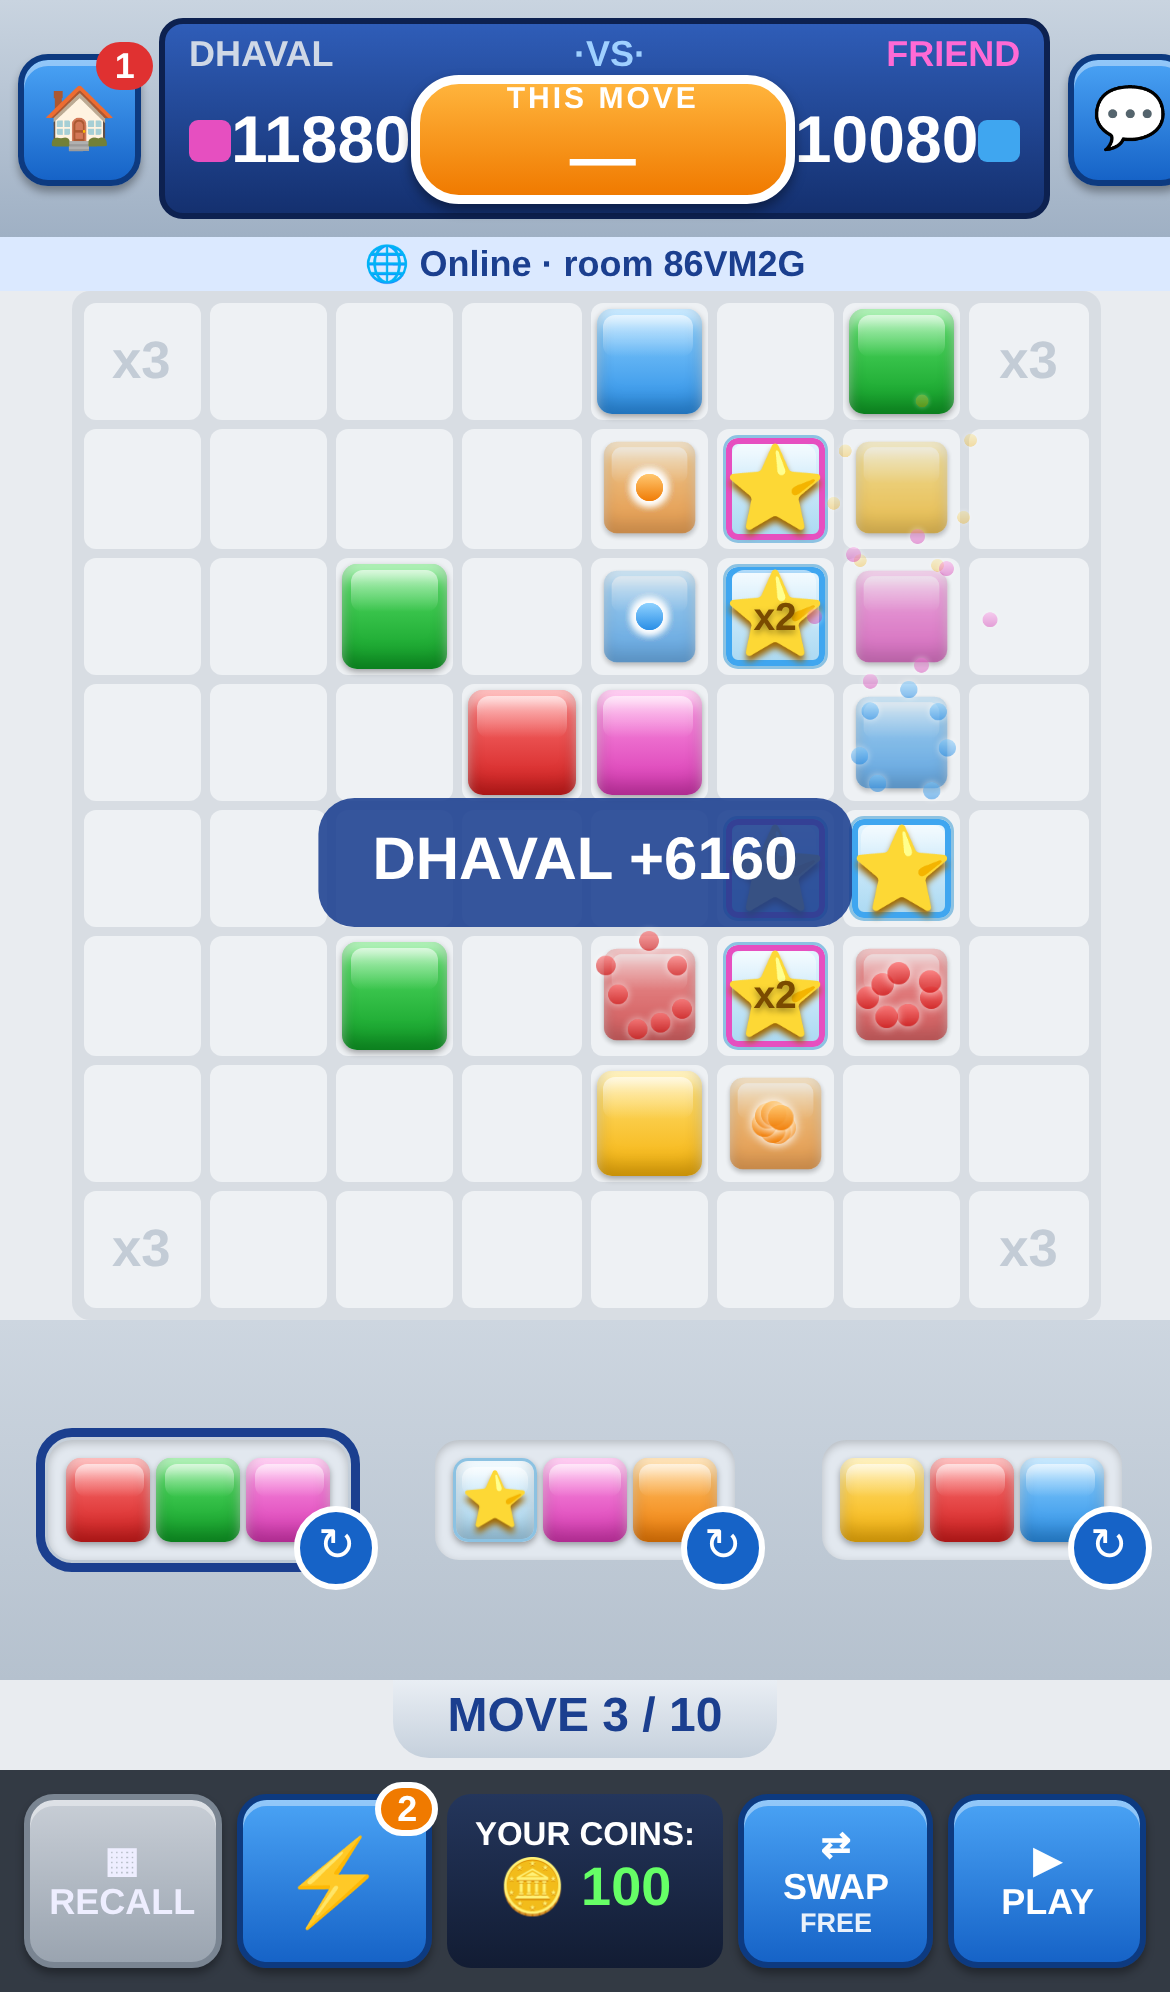
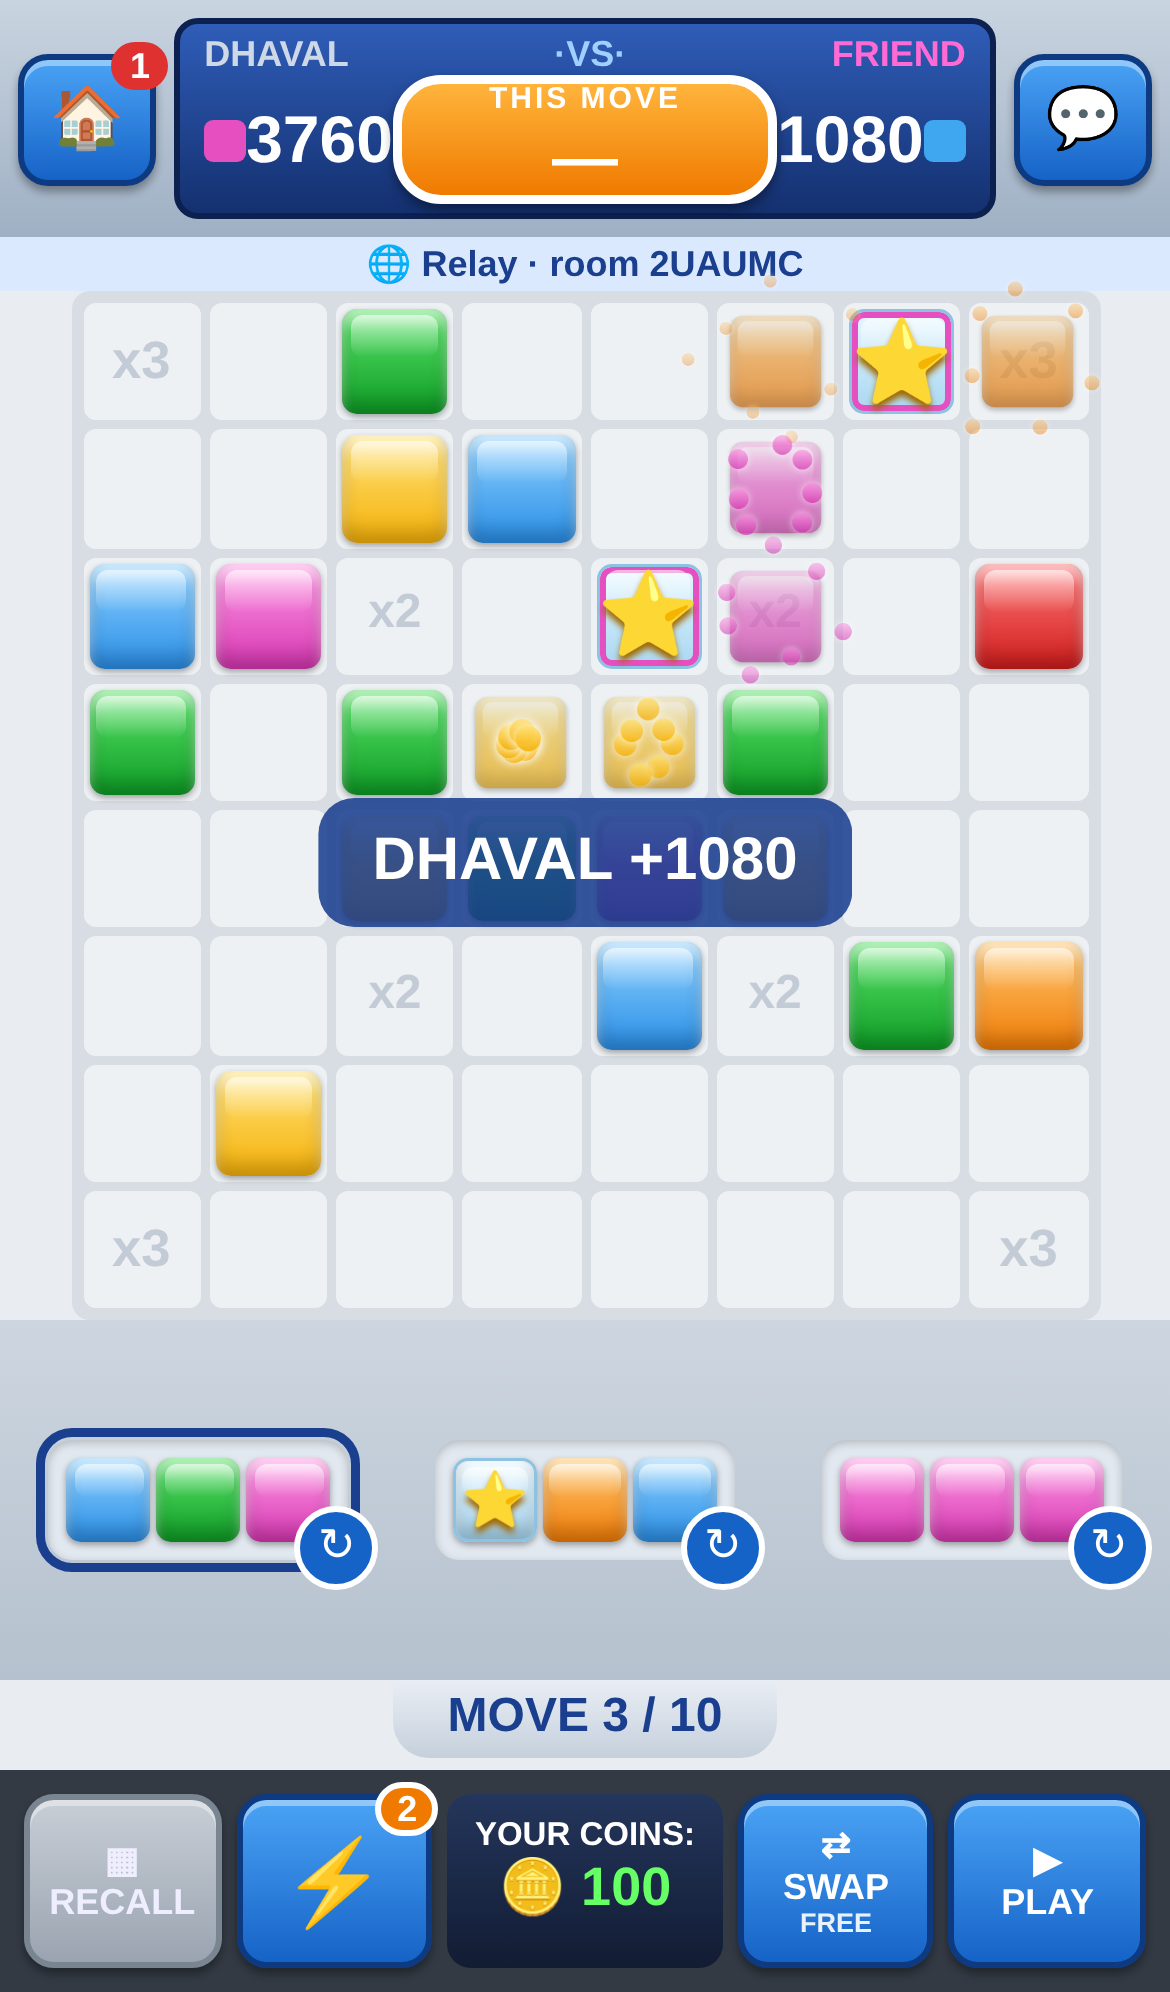
v26 (v25 + WiFi mode): WebRTC DataChannel P2P with ntfy signaling only, relay fallback, direct/relay status

diff --git a/app.js b/app.js
@@ -149,7 +149,7 @@ function onMsg(d){const S=Online.st;
  else if(d.t==='away'){S.lastSeen=0;updOnl();}
  else if(d.t==='rematch'&&d.code){Online.persist({rematch:d.code});say('Rematch offered! See My online games');}
  renderGames();}
-function updOnl(){const el=$('ostat');if(!isOn()||g.over){el.className='';return;}const away=Date.now()-Online.st.lastSeen>200000;el.textContent=away?'⚠ '+NAMES()[1-meIdx()]+' away / reconnecting…':'🌐 Online · room '+Online.st.code;el.className=away?'show away':'show';}
+function updOnl(){const el=$('ostat');if(!isOn()||g.over){el.className='';return;}const away=Date.now()-Online.st.lastSeen>200000;el.textContent=Online.st.p2p?'⚡ Direct connection · room '+Online.st.code:(away?'⚠ '+NAMES()[1-meIdx()]+' away / reconnecting…':'🌐 Relay · room '+Online.st.code);el.className=away?'show away':'show';}
 setInterval(()=>{if(isOn()&&!g.over){if(document.visibilityState==='visible')Online.ping();updOnl();}},90000); // v25: keepalive 90s
 setInterval(()=>{if(isOn())updOnl();},5000);
 document.addEventListener('visibilitychange',()=>{if(!isOn())return;if(document.visibilityState==='visible'){Online.ping('back');}else Online.ping('away');});
@@ -157,11 +157,11 @@ function beginOnline(seed,names,coins,log){pending.length=0;stopWait();g=L.newGa
  pieces=[];boost=false;busy=false;sel=firstFree();$('overlay').classList.remove('show');$('onl').classList.remove('show');render();updOnl();say(g.turn===meIdx()?'Your turn!':'Waiting for '+NAMES()[g.turn]+'…');}
 const onlStatus=t=>{if(waitT){onlErr(t);return;}$('onlmsg').textContent=t;if(isOn()&&t){$('ostat').textContent='⚠ '+t;$('ostat').className='show away';}else if(isOn())updOnl();};
 $('hostBtn').onclick=()=>{const nm=$('pname').value.trim();if(!nm){$('pname').focus();say('Enter your name first');return;}profile.name=nm;saveProfile();
- const code=Online.host(nm,profile.coins,{msg:onMsg,status:onlStatus});$('onl').classList.add('show');$('onlcode').textContent=code;onlStatus('Share this code. Waiting for a friend to join…');};
+ const code=Online.host(nm,profile.coins,{msg:onMsg,status:onlStatus,p2p:onP2P});$('onl').classList.add('show');$('onlcode').textContent=code;onlStatus('Share this code. Waiting for a friend to join…');};
 $('joinBtn').onclick=()=>{const nm=$('pname').value.trim();if(!nm){$('pname').focus();say('Enter your name first');return;}profile.name=nm;saveProfile();
  const code=Online.clean($('joinCode').value);if(code.length!==6){say('Room codes have 6 letters/numbers');onlErr('Room codes have 6 letters/numbers (you typed '+code.length+').');return;}
  joinRoom(code);};
-function joinRoom(code){const nm=profile.name;if(Online.saved(code)&&!Online.saved(code).over){openGame(code);return;}Online.join(code,nm,profile.coins,{msg:onMsg,status:onlStatus});$('overlay').classList.remove('show');$('onl').classList.add('show');$('onlcode').textContent=code;onlStatus('Joining room…');renderGames();}
+function joinRoom(code){const nm=profile.name;if(Online.saved(code)&&!Online.saved(code).over){openGame(code);return;}Online.join(code,nm,profile.coins,{msg:onMsg,status:onlStatus,p2p:onP2P});$('overlay').classList.remove('show');$('onl').classList.add('show');$('onlcode').textContent=code;onlStatus('Joining room…');renderGames();}
 $('onlCancel').onclick=()=>{stopWait();Online.leave();$('onl').classList.remove('show');renderGames();say('Room kept in My online games');};
 // ---- autosave / resume (local games only) ----
 const SKEY='startiles.save';
@@ -173,9 +173,9 @@ function showResume(){const ob=$('onlResume');if(ob)ob.style.display='none';cons
  if(s&&s.g)b.textContent=(g&&g._live&&!g.over?'▶ Continue game (':'▶ Resume game (')+(s.g.mode==='ai'?'vs COMPUTER':'Pass & Play')+', move '+Math.min(10,s.g.moves[0]+1)+'/10)';}
 $('onlResume').onclick=()=>openGame((Online.saved()||{}).code);
 function openGame(code){const s=Online.saved(code);if(!s)return;if(s.rematch&&s.over){joinRoom(s.rematch);return;}
- if(s.seed==null){Online.resume(s,{msg:onMsg,status:onlStatus});$('onl').classList.add('show');$('onlcode').textContent=s.code;onlStatus(s.host?'Share this code. Waiting for a friend to join…':'Joining room…');return;}$('overlay').classList.remove('show');
+ if(s.seed==null){Online.resume(s,{msg:onMsg,status:onlStatus,p2p:onP2P});$('onl').classList.add('show');$('onlcode').textContent=s.code;onlStatus(s.host?'Share this code. Waiting for a friend to join…':'Joining room…');return;}$('overlay').classList.remove('show');
  if(isOn()&&Online.st.on&&Online.st.code===s.code){render();return;} // still connected: just close the menu
- Online.resume(s,{msg:onMsg,status:onlStatus});beginOnline(s.seed,s.names,s.coins,s.log);updOnl();say((s.over?'Finished game ':'Rejoined room ')+s.code+(s.over?'':' – catching up…'));if(g.over){$('result').innerHTML=(g.winner<0?'Tie game!':NAMES()[g.winner]+' wins!')+'<br>'+g.scores[0]+' – '+g.scores[1];Online.leave();$('overlay').classList.add('show');renderGames();}}
+ Online.resume(s,{msg:onMsg,status:onlStatus,p2p:onP2P});beginOnline(s.seed,s.names,s.coins,s.log);updOnl();say((s.over?'Finished game ':'Rejoined room ')+s.code+(s.over?'':' – catching up…'));if(g.over){$('result').innerHTML=(g.winner<0?'Tie game!':NAMES()[g.winner]+' wins!')+'<br>'+g.scores[0]+' – '+g.scores[1];Online.leave();$('overlay').classList.add('show');renderGames();}}
 $('resumeBtn').onclick=()=>{const s=loadSave();if(!s)return;g=Object.assign(s.g,{rng:Math.random,_live:true});if(s.difficulty)profile.difficulty=s.difficulty;
  pieces=(s.pieces||[]).filter(p=>p&&p.tiles);boost=false;busy=false;aim=null;$('overlay').classList.remove('show');sel=firstFree();
  if(g.mode==='ai'&&g.turn===1){pieces=[];next();}else render();say('Game resumed');};
@@ -212,7 +212,7 @@ function esc(t){return String(t).replace(/[&<>"]/g,c=>({'&':'&amp;','<':'&lt;','
 document.addEventListener('click',e=>{const row=e.target.closest&&e.target.closest('.mg');if(!row)return;const code=row.dataset.code,a=e.target.dataset&&e.target.dataset.a,o=Online.saved(code);if(!o)return;
  if(a==='rm'){const G=replayGame(o);if(G&&!G.over&&!o.over){if(!confirm('Resign this game vs '+(o.names?o.names[1-o.me]:'friend')+'? It counts as a loss and they win.'))return;resignStored(o);}else if(!G&&!confirm('Remove this waiting room?'))return;
   if(isOn()&&Online.st.code===code){Online.leave();g=L.newGame('ai');g.coins[0]=profile.coins;render();}Online.clear(code);renderGames();return;}
- if(a==='rematch'){const nm=profile.name||$('pname').value.trim();if(!nm){say('Enter your name first');return;}const nc=Online.host(nm,profile.coins,{msg:onMsg,status:onlStatus});Online.sendTo(code,o.id,{t:'rematch',code:nc});
+ if(a==='rematch'){const nm=profile.name||$('pname').value.trim();if(!nm){say('Enter your name first');return;}const nc=Online.host(nm,profile.coins,{msg:onMsg,status:onlStatus,p2p:onP2P});Online.sendTo(code,o.id,{t:'rematch',code:nc});
   $('overlay').classList.remove('show');$('onl').classList.add('show');$('onlcode').textContent=nc;onlStatus('Rematch room – waiting for '+(o.names?o.names[1-o.me]:'friend')+'…');return;}
  if(a==='join'){joinRoom(o.rematch);return;}
  openGame(code);});
@@ -246,6 +246,8 @@ function startWait(){stopWait();waitStart=Date.now();onlErr('');
   if(!S.host){if(sec%10===0&&sec>0)Online.send({t:'hello',name:profile.name,coins:profile.coins});$('onlmsg').textContent=conn+' · asking host to start ('+sec+'s)';}
   else $('onlmsg').textContent=conn+' · waiting for a friend to join ('+sec+'s). Share the code.';
   const lim=S.host?180:45;if(sec>=lim){$('onlRetry').style.display='block';onlErr(S.host?'No one has joined yet. Check your friend typed the code, then tap Retry.':(net?'The host isn\u2019t answering. Make sure the host has this room open, check the code, then Retry.':'Can\u2019t reach the relay (ntfy.sh). Check your internet, then Retry.'));}},1000);}
-$('onlRetry').onclick=()=>{const S=Online.st,o=Online.saved(S.code);if(!o)return;Online.resume(o,{msg:onMsg,status:onlStatus});if(!o.host)Online.send({t:'hello',name:profile.name,coins:profile.coins});startWait();};
+$('onlRetry').onclick=()=>{const S=Online.st,o=Online.saved(S.code);if(!o)return;Online.resume(o,{msg:onMsg,status:onlStatus,p2p:onP2P});if(!o.host)Online.send({t:'hello',name:profile.name,coins:profile.coins});startWait();};
 (function(){const H=$('hostBtn').onclick,J=$('joinBtn').onclick;$('hostBtn').onclick=()=>{H();if(Online.st.on&&Online.st.seed==null)startWait();};$('joinBtn').onclick=()=>{J();if(Online.st.on&&Online.st.seed==null)startWait();};})();
 const _og=openGame;openGame=function(code){_og(code);const S=Online.st;if(S.on&&S.seed==null){if(!S.host)Online.send({t:'hello',name:profile.name,coins:profile.coins});startWait();}};
+
+function onP2P(on){updOnl();say(on?'⚡ Direct connection':'Direct link lost – using relay');}

diff --git a/online.js b/online.js
@@ -8,12 +8,34 @@ const Online=(function(){
  const clean=c=>String(c||'').toUpperCase().replace(/[^A-Z0-9]/g,'');
  const rnd=()=>{const A='ABCDEFGHJKLMNPQRSTUVWXYZ23456789';let s='';for(let i=0;i<6;i++)s+=A[Math.floor(Math.random()*A.length)];return s;};
  function mulberry(a){return function(){a|=0;a=a+0x6D2B79F5|0;let t=Math.imul(a^a>>>15,1|a);t=t+Math.imul(t^t>>>7,61|t)^t;return((t^t>>>14)>>>0)/4294967296;};}
- function send(msg,tries){msg.from=st.id;const topic=st.topic;return fetch(RELAY+topic,{method:'POST',body:JSON.stringify(msg)}).then(r=>{if(r.status===429||!r.ok)throw new Error(r.status);st.netOk=Date.now();}).catch(e=>{st.handlers.status&&st.handlers.status(String(e.message)==='429'?'Relay busy (rate limited) – retrying…':'Connection problem – retrying…');if((tries||0)<5&&topic===st.topic)setTimeout(()=>send(msg,(tries||0)+1),String(e.message)==='429'?15000*((tries||0)+1):3000*((tries||0)+1));});}
+ function send(msg,tries){msg.from=st.id;if(msg.t!=='rtc'&&st.dc&&st.dc.readyState==='open'){try{st.dc.send(JSON.stringify(msg));st.p2pSent=(st.p2pSent||0)+1;return Promise.resolve();}catch(e){}}const topic=st.topic;return fetch(RELAY+topic,{method:'POST',body:JSON.stringify(msg)}).then(r=>{if(r.status===429||!r.ok)throw new Error(r.status);st.netOk=Date.now();}).catch(e=>{st.handlers.status&&st.handlers.status(String(e.message)==='429'?'Relay busy (rate limited) – retrying…':'Connection problem – retrying…');if((tries||0)<5&&topic===st.topic)setTimeout(()=>send(msg,(tries||0)+1),String(e.message)==='429'?15000*((tries||0)+1):3000*((tries||0)+1));});}
  // v24: two transports. SSE (fast) + fetch polling /json?poll=1&since=<last id> (reliable on iOS, where
  // EventSource dies in the background / home-screen PWA). Same handler + dedupe by ntfy message id.
  function handle(env){let d;if(!env||env.event&&env.event!=='message')return;try{d=JSON.parse(env.message);}catch(_){return;}
   if(env.id){if(st.seen.has(env.id))return;st.seen.add(env.id);st.pollId=env.id;}if(!d||d.from===st.id)return;
+  d._old=env.time&&env.time*1000<st.since-5000;if(d.t==='rtc'){if(!d._old)rtcMsg(d);return;}
+  if(d.t==='back'&&!d._old&&st.dc){rtcClose();if(!st.host)setTimeout(()=>sendSig({k:'req'}),300);} // peer came back via relay: our direct link is stale
   d._old=env.time&&env.time*1000<st.since-5000;if(!d._old)st.lastSeen=Date.now();st.lastAct=Math.max(st.lastAct||0,(env.time||0)*1000);st.handlers.msg&&st.handlers.msg(d);}
+ // ---- v25 WiFi mode: WebRTC DataChannel peer-to-peer; ntfy carries only signaling (1 offer + 1 answer, ICE bundled) ----
+ const ICE={iceServers:[{urls:'stun:stun.l.google.com:19302'}]};
+ function gathered(pc){return new Promise(r=>{if(pc.iceGatheringState==='complete')return r();const t=setTimeout(r,2500);pc.addEventListener('icegatheringstatechange',()=>{if(pc.iceGatheringState==='complete'){clearTimeout(t);r();}});});}
+ function rtcClose(){try{st.dc&&st.dc.close();}catch(e){}try{st.pc&&st.pc.close();}catch(e){}st.dc=null;st.pc=null;if(st.p2p){st.p2p=false;st.handlers.p2p&&st.handlers.p2p(false);}}
+ function wireDC(dc){st.dc=dc;dc.onopen=()=>{st.p2p=true;st.lastSeen=Date.now();st.handlers.p2p&&st.handlers.p2p(true);try{dc.send(JSON.stringify({t:'ping',have:st.applied,from:st.id}));}catch(e){}};
+  dc.onclose=()=>{const was=st.p2p;st.p2p=false;st.dc=null;if(was){st.handlers.p2p&&st.handlers.p2p(false);clearTimeout(st.rtcT);st.rtcT=setTimeout(()=>rtcStart(),30000);}};
+  dc.onmessage=e=>{let d;try{d=JSON.parse(e.data);}catch(_){return;}if(!d||d.from===st.id)return;st.lastSeen=Date.now();st.handlers.msg&&st.handlers.msg(d);};}
+ function rtcOK(){return typeof RTCPeerConnection!=='undefined'&&st.on&&st.seed!=null;}
+ // host makes the offer; joiner asks with 'req'. Gives up quietly (relay mode) if no answer within 20s.
+ async function rtcStart(force){if(!rtcOK()||(!force&&st.dc&&st.dc.readyState==='open'))return;if(!st.host){sendSig({k:'req'});return;}
+  st.offerAt=Date.now();rtcClose();const pc=new RTCPeerConnection(ICE),sid=Math.random().toString(36).slice(2,8);st.pc=pc;st.sid=sid;wireDC(pc.createDataChannel('game',{ordered:true}));
+  try{await pc.setLocalDescription(await pc.createOffer());await gathered(pc);if(st.pc!==pc)return;st.offerAt=Date.now();sendSig({k:'offer',sid,sdp:pc.localDescription.sdp});}catch(e){return;}
+  clearTimeout(st.rtcGive);st.rtcGive=setTimeout(()=>{if(st.pc===pc&&!st.p2p)rtcClose();},20000);}
+ async function rtcAnswer(d){if(typeof RTCPeerConnection==='undefined')return;rtcClose();const pc=new RTCPeerConnection(ICE);st.pc=pc;st.sid=d.sid;pc.ondatachannel=e=>wireDC(e.channel);
+  try{await pc.setRemoteDescription({type:'offer',sdp:d.sdp});await pc.setLocalDescription(await pc.createAnswer());await gathered(pc);if(st.pc!==pc)return;sendSig({k:'answer',sid:d.sid,sdp:pc.localDescription.sdp});}catch(e){}}
+ function sendSig(o){o.t='rtc';st.rtcSig=(st.rtcSig||0)+1;send(o);}
+ function rtcMsg(d){if(d.k==='req'&&st.host&&st.dc&&st.dc.readyState==='open'){rtcClose();}
+  if(d.k==='req'&&st.host&&!(st.pc&&st.pc.signalingState==='have-local-offer'&&Date.now()-st.offerAt<8000)){clearTimeout(st.rtcDeb);st.rtcDeb=setTimeout(()=>rtcStart(true),300);} // peer asked = it has no link (e.g. it reloaded)
+  else if(d.k==='offer'&&!st.host)rtcAnswer(d);
+  else if(d.k==='answer'&&st.host&&st.pc&&d.sid===st.sid&&st.pc.signalingState==='have-local-offer')st.pc.setRemoteDescription({type:'answer',sdp:d.sdp}).catch(()=>{});}
  const status=t=>{st.handlers.status&&st.handlers.status(t);};
  function openSSE(){try{if(st.es)st.es.close();}catch(e){}if(typeof EventSource==='undefined')return;st.es=new EventSource(RELAY+st.topic+'/sse?since=all');
   st.es.onopen=()=>{st.sseOk=true;st.netOk=Date.now();};st.es.onmessage=e=>{let env;try{env=JSON.parse(e.data);}catch(_){return;}handle(env);};
@@ -70,11 +92,12 @@ const Online=(function(){
   join(code,name,coins,h){Object.assign(st,{on:true,host:false,me:1,code:clean(code),applied:0,log:[],seed:null,handlers:h});st.topic='startiles-room-'+st.code;st.id=Math.random().toString(36).slice(2,10);st.seen=new Set();st.lastAct=Date.now();listen();persist();send({t:'hello',name,coins});},
   resume(s,h){Object.assign(st,{on:true,host:s.host,me:s.me,code:s.code,id:s.id,applied:(s.log||[]).length,log:(s.log||[]).slice(),seed:s.seed,lastAct:s.lastAct||0,names:s.names,coins:s.coins,handlers:h});st.topic='startiles-room-'+st.code;
    st.seen=new Set();listen();send({t:'back',have:st.applied});},
-  setGame(seed,names,coins){st.seed=seed;st.names=names;st.coins=coins;persist();},
+  setGame(seed,names,coins){st.seed=seed;st.names=names;st.coins=coins;persist();clearTimeout(st.rtcT);st.rtcT=setTimeout(rtcStart,st.host?1500:500);},
+  rtcStart,rtcClose,
   start(seed,names,coins){send({t:'start',seed,names,coins});},
   act(a){const n=st.applied;st.applied++;st.log.push(a);st.lastAct=Date.now();persist();send({t:'act',n,a});},
   record(a){st.applied++;st.log.push(a);persist();},
   resend(from){for(let n=from;n<st.log.length;n++)send({t:'act',n,a:st.log[n]});},
   ping(t){if(st.on)send({t:t||'ping',have:st.applied});},
-  leave(){if(st.es)st.es.close();st.es=null;st.on=false;clearTimeout(st.loopT);}};
+  leave(){rtcClose();clearTimeout(st.rtcT);if(st.es)st.es.close();st.es=null;st.on=false;clearTimeout(st.loopT);}};
 })();

diff --git a/index.html b/index.html
@@ -1,7 +1,7 @@
 <!DOCTYPE html><html><head><meta charset="utf-8"><meta name="viewport" content="width=device-width,initial-scale=1,viewport-fit=cover,user-scalable=no">
 <title>Star Tiles</title><link rel="manifest" href="manifest.json"><link rel="apple-touch-icon" href="icon-180.png">
 <meta name="apple-mobile-web-app-capable" content="yes"><meta name="mobile-web-app-capable" content="yes"><meta name="apple-mobile-web-app-status-bar-style" content="black"><meta name="theme-color" content="#1b3f8f">
-<link rel="stylesheet" href="style.css?v=25"></head><body>
+<link rel="stylesheet" href="style.css?v=26"></head><body>
 <div id="app">
 <header><button class="btn sq" id="menuBtn" aria-label="Menu">🏠</button>
 <div id="hud"><div class="names"><span id="n0" class="p0">DHAVAL P</span><span class="vs">·VS·</span><span id="n1">COMPUTER</span></div>
@@ -27,8 +27,8 @@
 <div class="diff" id="diff"><button data-d="easy">EASY</button><button data-d="medium">MEDIUM</button><button data-d="hard">HARD</button><button data-d="expert">EXPERT</button></div>
 <button class="btn big" id="vsAI">Play vs COMPUTER</button><button class="btn big" id="vsP">Pass &amp; Play (2 players)</button>
 <div class="online"><button class="btn big" id="hostBtn">🌐 Host online game</button>
-<div class="joinrow"><input id="joinCode" maxlength="14" placeholder="ROOM CODE" autocapitalize="characters" autocomplete="off"><button class="btn" id="joinBtn">Join</button></div></div><div id="ver">v25</div></div></div>
-</div><script src="logic.js?v=25"></script><script src="online.js?v=25"></script><script src="app.js?v=25"></script>
+<div class="joinrow"><input id="joinCode" maxlength="14" placeholder="ROOM CODE" autocapitalize="characters" autocomplete="off"><button class="btn" id="joinBtn">Join</button></div></div><div id="ver">v26</div></div></div>
+</div><script src="logic.js?v=26"></script><script src="online.js?v=26"></script><script src="app.js?v=26"></script>
 <script>
 if('serviceWorker'in navigator){let reloaded=false;const had=!!navigator.serviceWorker.controller;
  navigator.serviceWorker.addEventListener('controllerchange',()=>{if(reloaded||!had)return;try{if(document.getElementById('onl').classList.contains('show')||(typeof g!=='undefined'&&g&&g.mode==='online'))return;}catch(e){} // v24: never reload mid-connect / online game

diff --git a/sw.js b/sw.js
@@ -1,4 +1,4 @@
-const V='v25',C='star-tiles-'+V,F=['./','index.html','style.css?v=25','app.js?v=25','logic.js?v=25','online.js?v=25','manifest.json','icon-180.png','icon-192.png','icon-512.png'];
+const V='v26',C='star-tiles-'+V,F=['./','index.html','style.css?v=26','app.js?v=26','logic.js?v=26','online.js?v=26','manifest.json','icon-180.png','icon-192.png','icon-512.png'];
 self.addEventListener('install',e=>{self.skipWaiting();e.waitUntil(caches.open(C).then(c=>c.addAll(F)).catch(()=>{}));});
 self.addEventListener('activate',e=>e.waitUntil(caches.keys().then(k=>Promise.all(k.filter(x=>x!==C).map(x=>caches.delete(x)))).then(()=>self.clients.claim())));
 // network-first for pages/code; cache only as offline fallback
